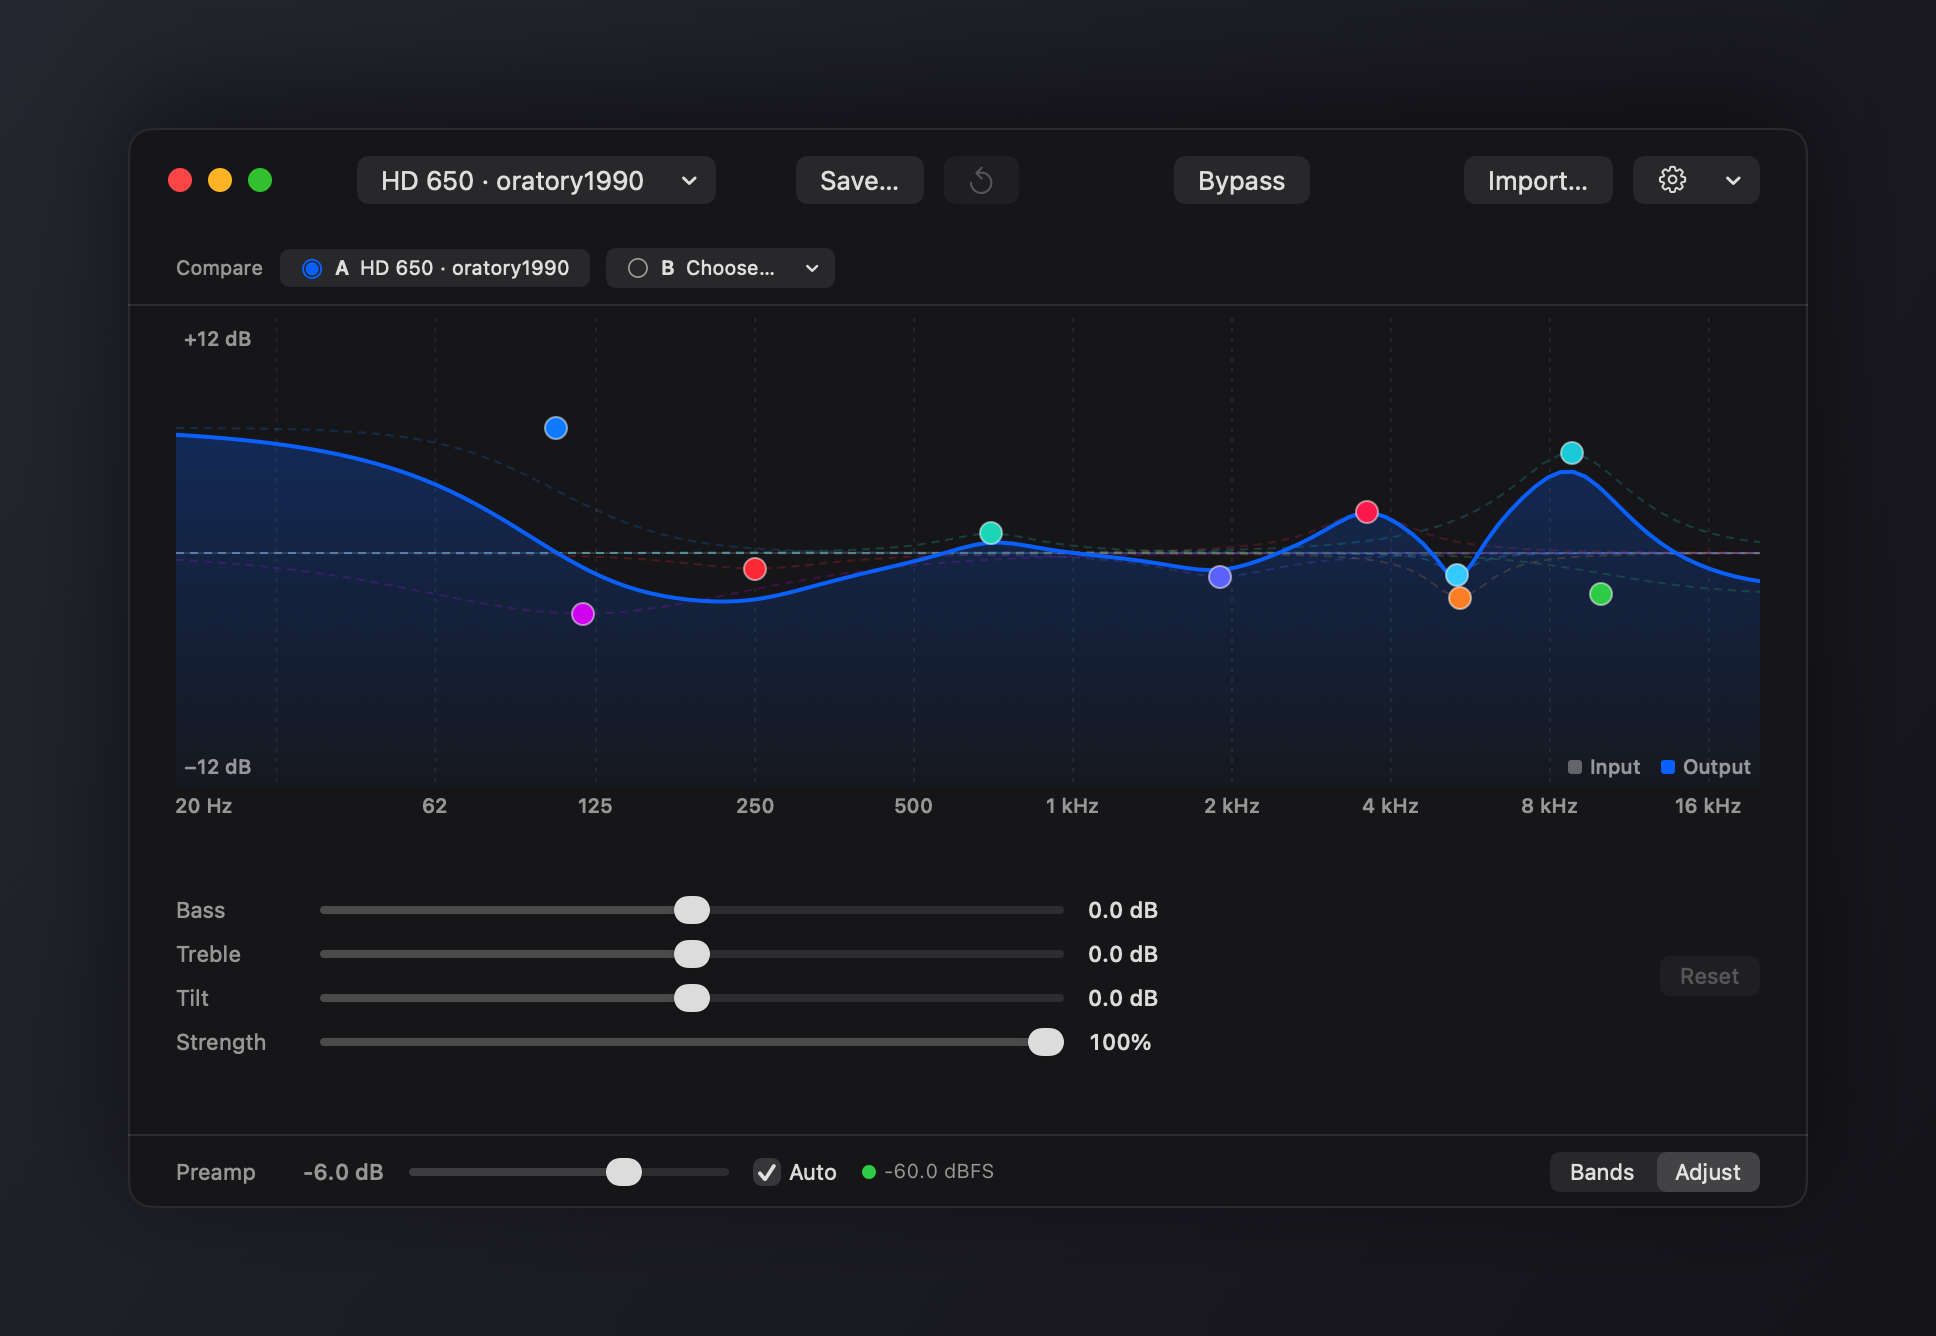
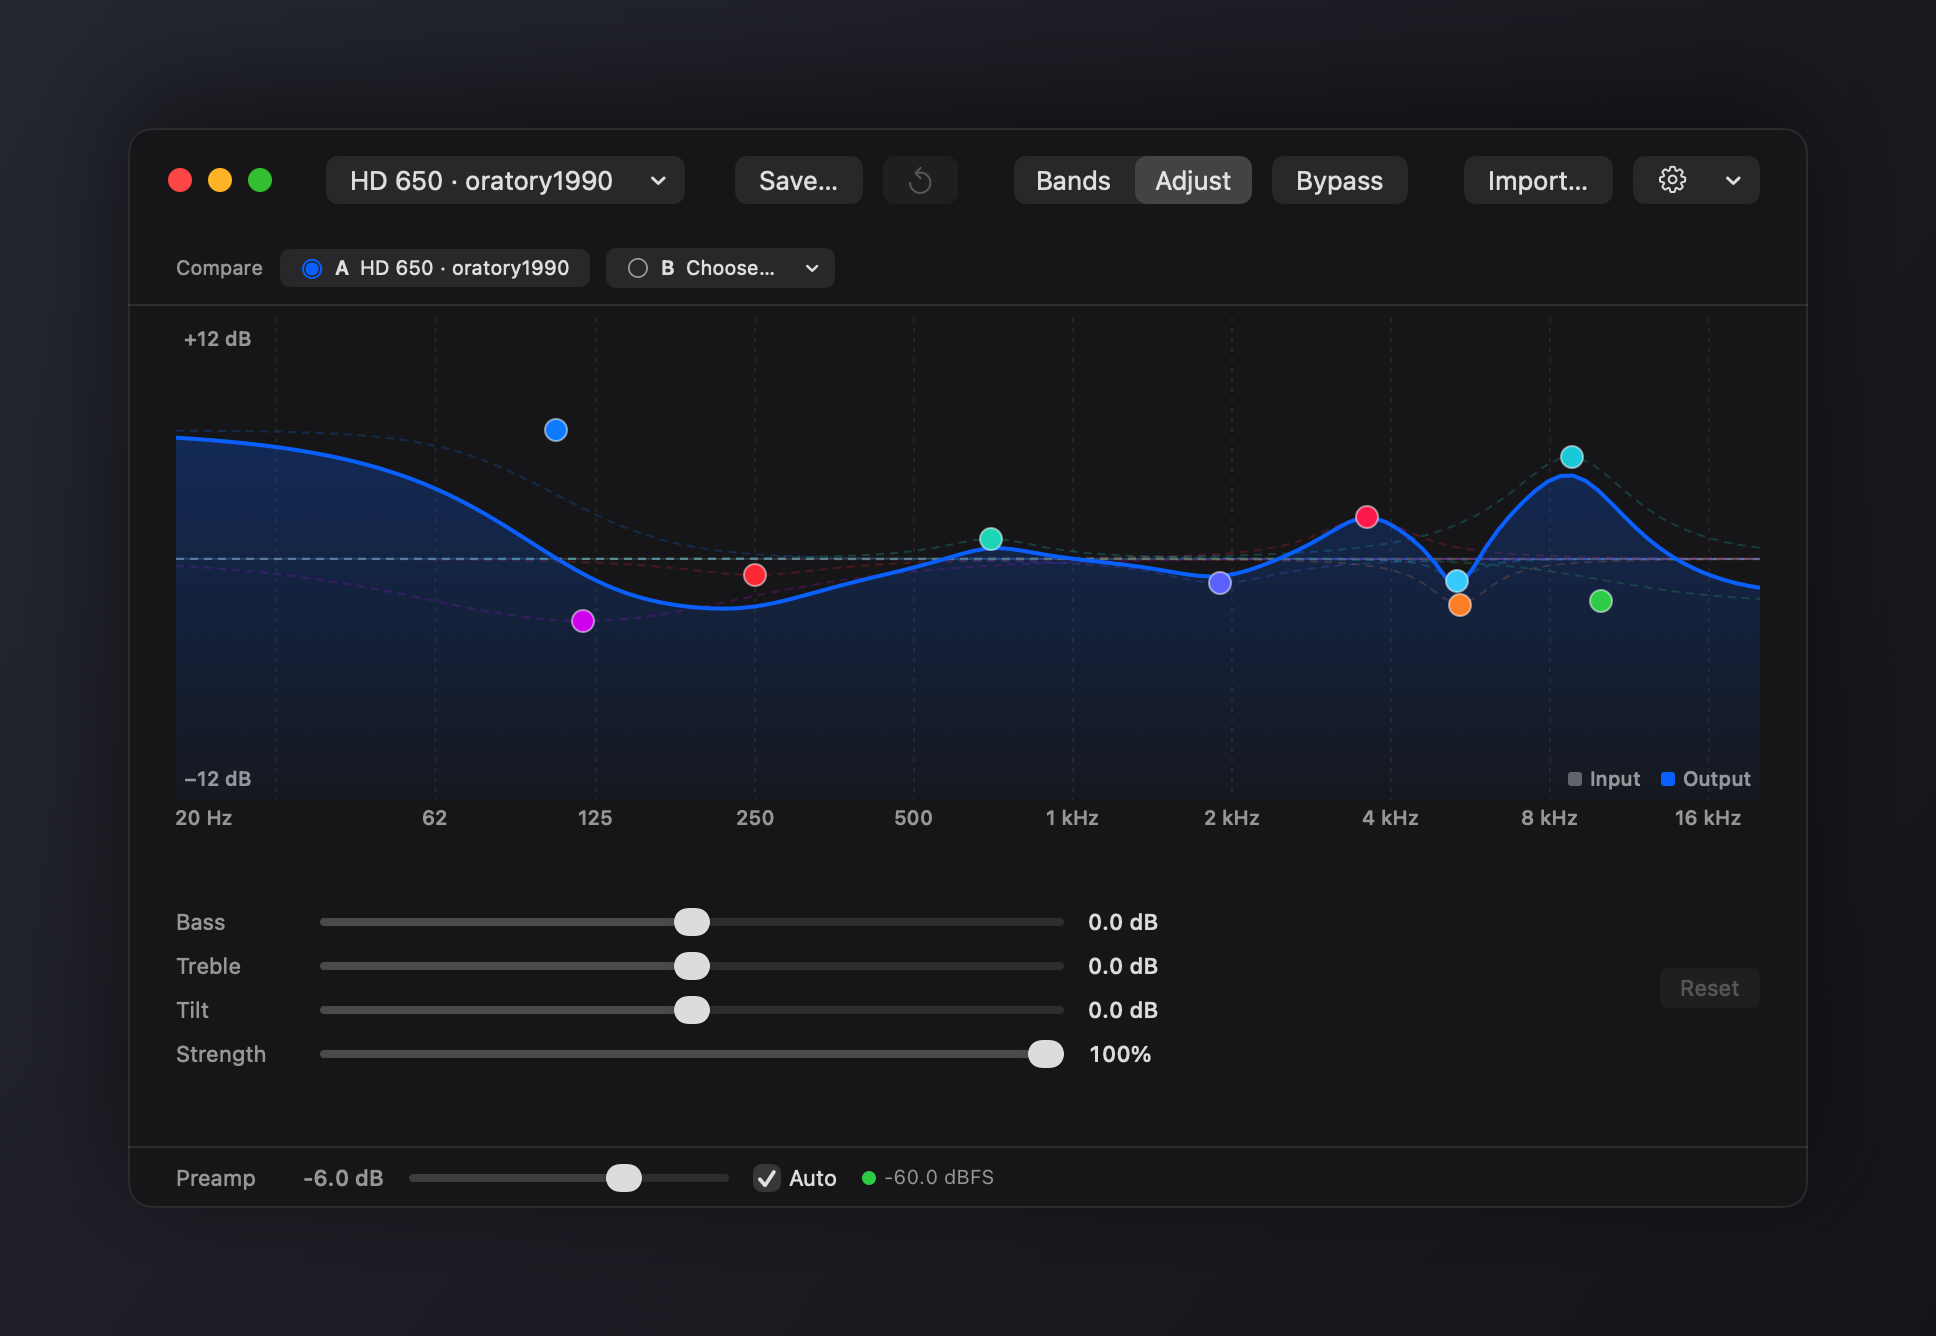
fix: move the Bands / Adjust switch into the editor toolbar (#45)
The segmented control sits in the toolbar's centre beside Bypass at
toolbar size instead of at the trailing end of the Preamp bar, so the
editor's two modes are visible at a glance. Release 1.4.9.

diff --git a/Sources/OnlyEQ/UI/EditorView.swift b/Sources/OnlyEQ/UI/EditorView.swift
@@ -156,6 +156,7 @@ struct EditorView: View {
             saveButton
             revertButton
             Spacer()
+            stripModePicker
             bypassToggle
             Spacer()
             importButton
@@ -173,11 +174,26 @@ struct EditorView: View {
             saveButton
             revertButton
         }
-        ToolbarItem(placement: .principal) { bypassToggle }
+        ToolbarItemGroup(placement: .principal) {
+            stripModePicker
+            bypassToggle
+        }
         ToolbarItemGroup(placement: .primaryAction) {
             importButton
             AppGearMenu()
         }
+    }
+
+    /// The editor's two ways of working: every filter, or the whole profile.
+    private var stripModePicker: some View {
+        Picker("Editing", selection: $stripMode) {
+            Text("Bands").tag(StripMode.bands)
+            Text("Adjust").tag(StripMode.adjust)
+        }
+        .pickerStyle(.segmented)
+        .labelsHidden()
+        .fixedSize()
+        .help("Bands edits each filter. Adjust tunes the whole profile with Bass, Treble, Tilt, and Strength.")
     }
 
     private var presetMenu: some View {
@@ -484,14 +500,6 @@ struct EditorView: View {
                 .fixedSize(horizontal: true, vertical: false)
                 .layoutPriority(1)
             Spacer()
-            Picker("Editing", selection: $stripMode) {
-                Text("Bands").tag(StripMode.bands)
-                Text("Adjust").tag(StripMode.adjust)
-            }
-            .pickerStyle(.segmented)
-            .labelsHidden()
-            .fixedSize()
-            .help("Bands edits each filter. Adjust tunes the whole profile with Bass, Treble, Tilt, and Strength.")
         }
         .controlSize(.small)
         .padding(.horizontal, 24)

diff --git a/DESIGN.md b/DESIGN.md
@@ -218,7 +218,7 @@ The palette is macOS itself; the tokens above are dark-appearance snapshots of d
 
 The popover is one `VStack` inside 14 pt side padding, 360 pt wide and about 350 pt tall, with a spacing rhythm of tight inside a group and generous between groups: header (badge, name, caption latency, switch), 10 pt, the plot row (the well at a fixed 150 pt with the compact axis labels 4 pt beneath, then 10 pt and the 30 pt fader column whose track spans the well's height and whose readout sits on the axis line), 8 pt, the listening row (Bypass and Crossfeed as small text capsule toggles leading, the output device as a small text capsule pull-down trailing), 18 pt, the preset row in semibold with its "Use automatically on <device>" small checkbox, 14 pt, then a hairline and the footer (a text-only bordered Open Equalizer… and the gear menu with its system indicator) 10 pt below it. The preset row is a 22 pt secondary symbol (`waveform.path`), an 8 pt gap, a borderless menu, and its detail indented 30 pt underneath. The popover is sized once to its fitting size when shown, so the panel never resizes while open. It grows only with the system text size.
 
-The editor window opens at 840 by 560 pt with a minimum of 720 by 480. Its unified 52 pt title bar carries real toolbar items (preset menu, Save…, and Revert as an `arrow.counterclockwise` glyph on the left; Bypass in the centre; a text-only Import… and the gear on the right) and hides the window title. The verbs are words; the one glyph is the undo arrow. Below it: the Compare row with 8 pt above and below, a divider, the graph filling the remaining height with 24 pt side margins, a 158 pt band list of 22 pt rows in two columns (three from 1056 pt wide), filled top to bottom then left to right and ordered low to high in frequency so it reads like the graph (the order holds still for the length of a node drag); ten bands and the Add Band row fit without scrolling, longer presets scroll vertically. A Bands / Adjust segmented control at the trailing end of the Preamp bar swaps the list for the Adjust pane of the same height: Bass, Treble, Tilt, and Strength sliders with a Reset button, the simple way to tune a profile. Then a divider and the Preamp bar. Everything in the editor shares the 24 pt horizontal margin.
+The editor window opens at 840 by 560 pt with a minimum of 720 by 480. Its unified 52 pt title bar carries real toolbar items (preset menu, Save…, and Revert as an `arrow.counterclockwise` glyph on the left; the Bands / Adjust segmented control and Bypass in the centre; a text-only Import… and the gear on the right) and hides the window title. The verbs are words; the one glyph is the undo arrow. Below it: the Compare row with 8 pt above and below, a divider, the graph filling the remaining height with 24 pt side margins, a 158 pt band list of 22 pt rows in two columns (three from 1056 pt wide), filled top to bottom then left to right and ordered low to high in frequency so it reads like the graph (the order holds still for the length of a node drag); ten bands and the Add Band row fit without scrolling, longer presets scroll vertically. The toolbar's Bands / Adjust segmented control swaps the list for the Adjust pane of the same height: Bass, Treble, Tilt, and Strength sliders with a Reset button, the simple way to tune a profile. Then a divider and the Preamp bar. Everything in the editor shares the 24 pt horizontal margin.
 
 Settings is 560 pt wide with toolbar-style tabs (General, Devices, Sound, Shortcuts, Advanced, each an SF Symbol); each page is one grouped `Form` and the window resizes to the page. Onboarding is 560 pt wide and at least 460 tall: content, a divider, and a footer with Back on the left and Continue or Start Listening on the right at the large control size with 16 pt padding. The import sheet is 560 pt wide and at least 470 tall: a segmented picker at 12 pt padding, a divider, the tab body at 16 pt padding, a divider, and Cancel and Apply at 12 pt padding.
 

diff --git a/release-notes/1.4.9.md b/release-notes/1.4.9.md
@@ -1,0 +1,3 @@
+# OnlyEQ 1.4.9
+
+- The Bands / Adjust switch moves from the Preamp bar into the editor's toolbar, beside Bypass, at toolbar size.
